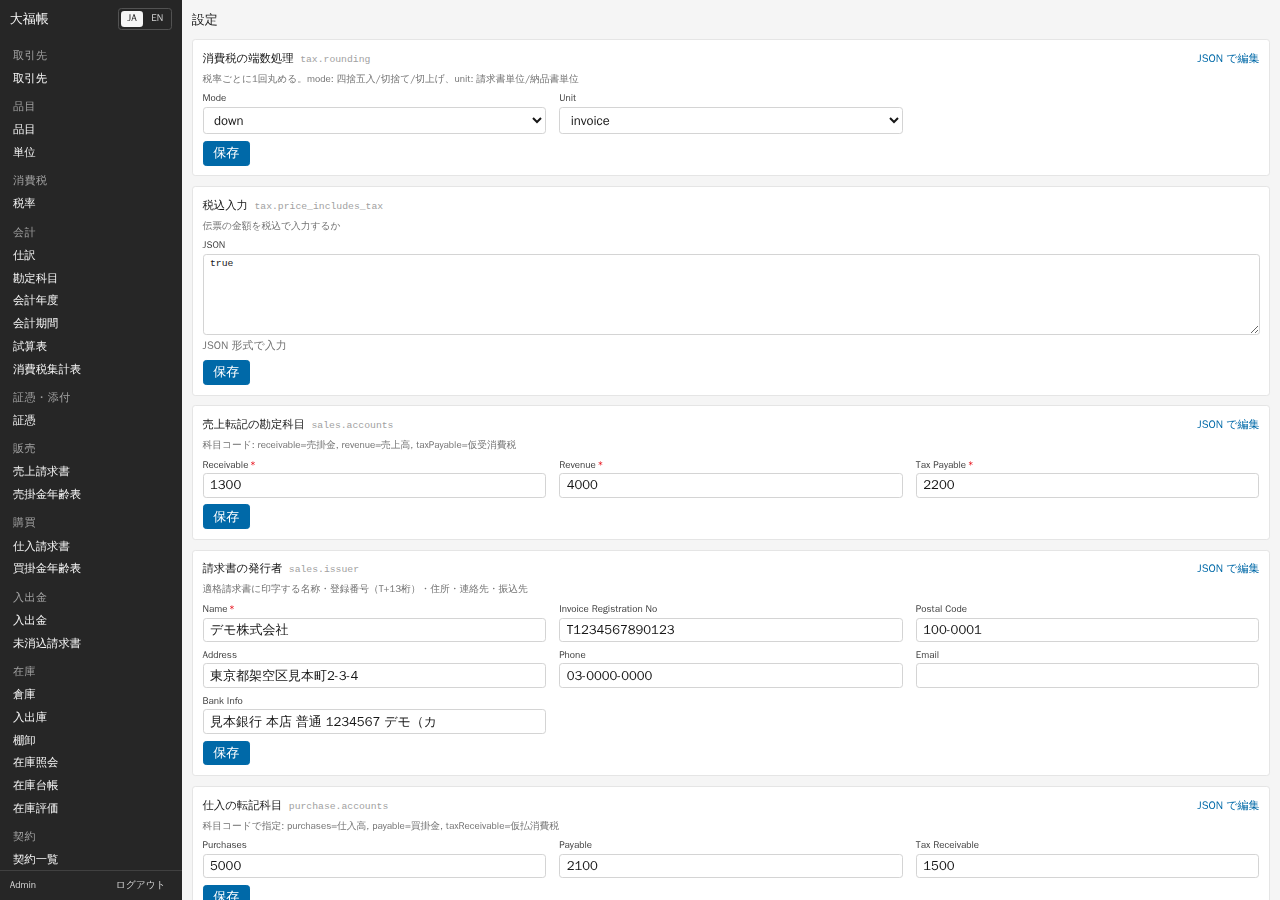
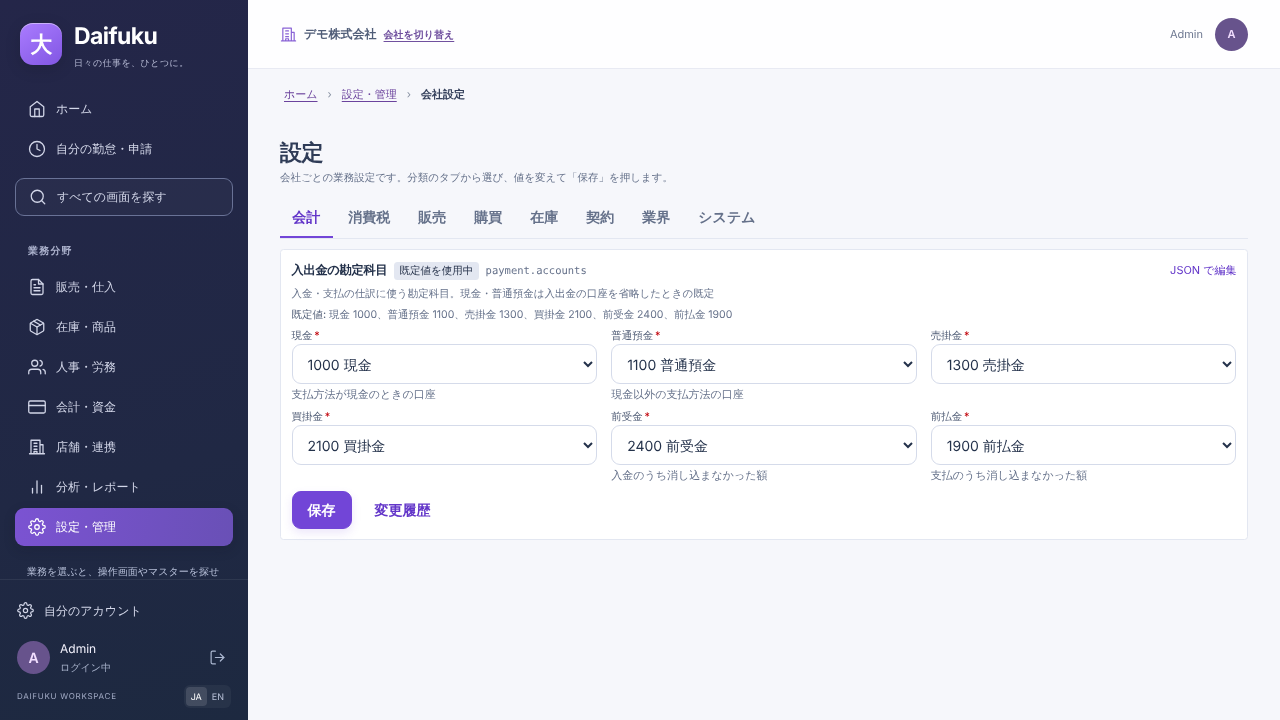
docs(settings): work log, manual screenshot and robust tab test (B1)
Record the settings console verification (gate:light, DB, browser), refresh
the chapter 03 screenshot from the browser run, cover the code picker's
fallback when accounts cannot be read, and read the first tab from the page
so a later company tab does not break the keyboard test.

Claude-Session: https://claude.ai/code/session_01QydeegbponQgR6vyUALmUN

diff --git a/apps/web/e2e/settings-console.spec.ts b/apps/web/e2e/settings-console.spec.ts
@@ -3,7 +3,7 @@
 // Dialog, the change history, and 390px. Writes go to the isolated E2E database; every changed setting is put back.
 import { expect, test, type APIRequestContext, type Page } from '@playwright/test';
 import { api, type Headers } from './operations-helpers.ts';
-import { assertNoOverflow, qualitySession, signInQuality } from './quality-helpers.ts';
+import { assertNoOverflow, failedRead, qualitySession, signInQuality } from './quality-helpers.ts';
 
 interface SettingOut {
   key: string;
@@ -44,12 +44,18 @@ test('settings-console AC-8/AC-14: category tabs keep ?tab= and follow the Arrow
   await page.goto('/settings');
   await expect(page.getByRole('heading', { name: '設定', exact: true, level: 1 })).toBeVisible();
   const names = await tablist(page).getByRole('tab').allTextContents();
-  // Only categories that have settings, in the kernel order (company / workforce / integration have none here).
-  expect(names.slice(0, 6)).toEqual(['会計', '消費税', '販売', '購買', '在庫', '契約']);
-  expect(names).toContain('システム');
+  // Only categories that have settings, in the kernel order (workforce / integration have none here); later items
+  // may add the company tab in front, so the first tab is read from the page.
+  const known = ['会社', '会計', '消費税', '販売', '購買', '在庫', '契約', '人事・労務', '業界', '連携', 'システム'];
+  expect(names).toEqual(known.filter((n) => names.includes(n)));
+  expect(names).toEqual(expect.arrayContaining(['会計', '消費税', '販売', '購買', '在庫', '契約', '業界', 'システム']));
   expect(names).not.toContain('人事・労務');
-  // No ?tab=: the first tab is selected and its panel holds that category's cards.
-  await expect(tab(page, '会計')).toHaveAttribute('aria-selected', 'true');
+  const first = names[0] ?? '';
+  const last = names[names.length - 1] ?? '';
+  expect(last).toBe('システム');
+  // No ?tab=: the first tab is selected.
+  await expect(tab(page, first)).toHaveAttribute('aria-selected', 'true');
+  await tab(page, '会計').click();
   await expect(page.getByRole('tabpanel', { name: '会計' })).toContainText('入出金の勘定科目');
   await expect(page.getByRole('tabpanel', { name: '会計' }).getByRole('combobox').first()).toBeEnabled();
   await page.screenshot({ path: test.info().outputPath('settings-accounting-desktop.png') });
@@ -65,7 +71,7 @@ test('settings-console AC-8/AC-14: category tabs keep ?tab= and follow the Arrow
 
   // Roving tabindex: only the selected tab is in the Tab order; arrows move and select (automatic activation).
   await expect(tab(page, '販売')).toHaveAttribute('tabindex', '0');
-  await expect(tab(page, '会計')).toHaveAttribute('tabindex', '-1');
+  await expect(tab(page, first)).toHaveAttribute('tabindex', '-1');
   await tab(page, '販売').focus();
   await page.keyboard.press('ArrowRight');
   await expect(tab(page, '購買')).toBeFocused();
@@ -76,26 +82,26 @@ test('settings-console AC-8/AC-14: category tabs keep ?tab= and follow the Arrow
   await expect(tab(page, '販売')).toBeFocused();
   await expect(page).toHaveURL(/[?&]tab=sales\b/);
   await page.keyboard.press('End');
-  await expect(tab(page, 'システム')).toBeFocused();
-  await expect(tab(page, 'システム')).toHaveAttribute('aria-selected', 'true');
+  await expect(tab(page, last)).toBeFocused();
+  await expect(tab(page, last)).toHaveAttribute('aria-selected', 'true');
   await expect(page).toHaveURL(/[?&]tab=system\b/);
   await page.keyboard.press('ArrowRight'); // wraps to the first
-  await expect(tab(page, '会計')).toBeFocused();
+  await expect(tab(page, first)).toBeFocused();
   await page.keyboard.press('ArrowLeft'); // wraps to the last
-  await expect(tab(page, 'システム')).toBeFocused();
+  await expect(tab(page, last)).toBeFocused();
   await page.keyboard.press('Home');
-  await expect(tab(page, '会計')).toBeFocused();
-  await expect(page).toHaveURL(/[?&]tab=accounting\b/);
+  await expect(tab(page, first)).toBeFocused();
+  await expect(tab(page, first)).toHaveAttribute('aria-selected', 'true');
   // Tab leaves the tab list for the panel (a single tab stop).
   await page.keyboard.press('Tab');
-  await expect(page.getByRole('tabpanel', { name: '会計' })).toBeFocused();
+  await expect(page.getByRole('tabpanel', { name: first })).toBeFocused();
 
   // The URL selects the tab on load; an unknown value falls back to the first tab.
   await page.goto('/settings?tab=inventory');
   await expect(tab(page, '在庫')).toHaveAttribute('aria-selected', 'true');
   await expect(page.getByRole('tabpanel', { name: '在庫' })).toContainText('既定の倉庫コード');
   await page.goto('/settings?tab=nope');
-  await expect(tab(page, '会計')).toHaveAttribute('aria-selected', 'true');
+  await expect(tab(page, first)).toHaveAttribute('aria-selected', 'true');
 });
 
 test('settings-console AC-9/AC-10/AC-11/AC-12: pick a sales posting account, see history, reset to the default', async ({
@@ -210,6 +216,16 @@ test('settings-console AC-9/AC-10: checkboxes, warehouse picker, enum labels and
   await expect(issuer.getByRole('textbox', { name: '住所', exact: true })).toHaveJSProperty('tagName', 'TEXTAREA');
   await expect(issuer.getByRole('textbox', { name: '登録番号', exact: true })).toBeVisible();
   await expect(issuer.getByText('T と数字 13 桁', { exact: false })).toBeVisible();
+
+  // A user who may not read accounts (e.g. only the settings role) types the code instead of picking it.
+  await page.route('**/api/account?*', (route) => route.fulfill(failedRead(403)));
+  await page.reload();
+  const typed = card(page, 'sales.accounts').getByRole('textbox', { name: '売上高', exact: true });
+  await expect(typed).toBeEditable();
+  await expect(
+    card(page, 'sales.accounts').getByText('一覧を読み込めないため', { exact: false }).first(),
+  ).toBeVisible();
+  await page.unroute('**/api/account?*');
 
   await page.evaluate(() => localStorage.setItem('daifuku.locale', 'en'));
   await page.reload();

diff --git a/docs/log/2026-10-29-settings-console.md b/docs/log/2026-10-29-settings-console.md
@@ -1,0 +1,70 @@
+# 作業記録: 2026-10-29 設定定義の表示属性と設定画面の再構成（B1）
+
+- セッション: 完成度向上計画 B1（workflow の作業項目、worktree `wip/settings-console`、基点 `ebc7574`）／ 担当: agent ／ 対象: [docs/specs/settings-console.md](../specs/settings-console.md)
+- 計測: tokens=null（未計測）, agent_minutes=約120, human_minutes=0, rework_lines=約60（e2e のロケーター変更、依存循環の解消、チェックボックスの必須印、リセット可否の追加）, gate_failures=2（gate:quick の eslint 1 件・依存境界 1 件。どちらも修正後に成功）
+
+## 決めたこと（と理由）
+
+- **表示属性は `SettingDef` に持たせ、登録時に検査する（[ADR-0027](../adr/0027-setting-presentation.md)）。** zod の `title` / `description` は単一文字列で `{ ja, en }` を持てない。画面側にラベル表を持つと module を足すたびに Web を変えることになる。検査は `kernel/src/setting-presentation.ts` の `checkSettingDef` で、property 名と enum 値は API が返すのと同じ `z.toJSONSchema(..., { io: 'input' })` から読む（zod の包みの違いで画面と検査が食い違わないように）。
+- **registry と表示属性の型の循環を避けた。** `setting-presentation.ts` は `SettingDef` を import せず、読む部分だけの構造型 `SettingPresentation` を持つ（dependency-cruiser の `no-circular` が type import でも検出したため）。
+- **単一値の設定には `fields` の代わりに定義直下の `widget` / `valueLabels`。** spec の AC-2 は単一値への `fields` を禁じるが、`inventory.default_warehouse`（倉庫）や `contract.default_proration`（選択肢）にも表示属性が要る。計画にあった widget の `checkbox` / `select` は schema の型で決まるので持たない。
+- **enum 値のラベル（`valueLabels`）を足した。** 目的の「日本語の選択肢で迷わず」に必要（`half_up` / `down` / `up` が生の値で出ていた）。AC-13 の走査にも含めた。
+- **各定義に `default` を足した。** 既定値の表示に要る。値は各 module が `getSetting` に渡していた fallback 定数そのもの。`SettingDef.default` の旧コメント（applyPack が既定値と等しい保存値を置き換える）は実装（`applySettings` は保存値を一切上書きしない）と食い違っていたので直した。挙動は変わらない。
+- **単一値の設定を JSON 入力から 1 つの入力にした。** boolean はチェックボックス（常に true/false が出るので必須印を付けない）、enum は選択肢、整数は数値の欄。record（`packs.applied`）だけ JSON 入力のまま。
+- **勘定科目・倉庫の選択欄は利用者自身の権限で `GET /api/<entity>` を読む。** 新しい読取経路を作らない（計画の原則 1）。`settings` ロールだけの利用者は勘定科目の read 権限が無いので、コードの直接入力に戻る（ブラウザ試験で 403 を返して確認）。保存値が一覧に無いときは値を残したまま「（見つかりません）」と警告する。一覧は 500 件まで（API の上限）。
+- **DELETE の監査 op は `delete`。** 変更前 `{ key: 値 }`、変更後 `{ key: null }`。会社行を `FOR UPDATE` で読んでから `settings - key` で消す。保存値が無ければ何もしない（監査も無し）。
+- **履歴は `company_settings` の監査のうち、key を変更前・変更後の snapshot に持つ行。** `setSetting` / `deleteSetting` に加え、pack 適用・l10n seed の書込みも同じ形なので含まれる。操作者は同じ tenant の利用者の `name` だけを添える（メールは返さない）。
+- **権限検査は kernel の 1 関数（`assertSettingsAccess`）に寄せた。** `setSetting` / `deleteSetting` / `settingHistory` が同じ境界（admin か `settings`、かつ `accessScope` が `all`）になり、route を経ない呼出しでも同じ。
+- **`packs.applied` には「既定に戻す」を出さない。** 消すと会社の全テンプレートのフック・画面が無効になる（`withContext` が `packs.applied` から `appliedPacks` を作る）。規則は「既定値の宣言が無い JSON 入力の設定には出さない」（`canReset`）。JSON 編集は従来どおり残した。読取専用の属性は B4 の `setup.progress` と合わせて検討（spec の未決事項）。
+- **リセット後の焦点はカードの「保存」。** 「既定に戻す」ボタンが消えるため kit の `Dialog` は開いた要素へ焦点を戻せない（ui.md の決まりどおり画面側で決める）。
+- **pack の設定は「業界」タブにまとめた**（spec の未決事項の初版どおり）。
+- **ADR-0013 の L1 に追記**し、pack 規約に「pack 自身の設定は fields / valueLabels / default を書く」を足した。
+
+## やったこと
+
+- kernel: `setting-presentation.ts`（新規）、`registry.ts`（`SettingDef` の拡張、`registerSetting` で検査）、`settings.ts`（`deleteSetting`、`settingHistory`、`assertSettingsAccess`）、`index.ts`
+- api: `routes/settings.ts`（`toOut` に category / order / fields / widget / valueLabels / defaultValue / isDefault、`DELETE /meta/settings/:key`、`GET /meta/settings/:key/audit`）
+- modules / packs: tax・sales・purchase・payment・inventory・contract・industry-operations、example・retail・real-estate の設定定義に表示属性と `default`。説明文から英語の property 名の列挙（`receivable=売掛金` など）を除いた
+- web: `lib/settings-console.ts`（新規。タブ・並び・フォームの形・既定値と履歴の文・`canReset`）、`lib/schema.ts`（`fields` の反映）、`components/setting-card.tsx`・`setting-code-field.tsx`（新規）、`pages/settings-page.tsx`（Tabs と `?tab=`）、`router.tsx`（`validateSearch`）、`api/settings.ts`・`api/types.ts`、`ui/token-usage.test.ts` の `CONVERTED` に 2 ファイル
+- tests: `kernel/test/setting-presentation.test.ts`、`apps/runtime/test/setting-labels.test.ts`、`apps/web/src/lib/settings-console.test.ts`、`apps/api/test/settings-console.db.test.ts`、`apps/web/e2e/settings-console.spec.ts`
+- 文書: ADR-0027（新規）、ADR-0013 追記、マニュアル 03（設定画面の説明・表・発行者の手順を日本語の細目名に、英語細目名の注意を削除、スクリーンショット `img/03-settings.png` を会計タブで撮り直し）、`docs/conventions/ui.md`（Tabs の注記、「会社設定の画面」節）、`docs/conventions/packs.md`、spec（implemented、実装で変えた点）
+
+## 検証（何を・どう確認したか。コードレビューか実測かを明記）
+
+- [実測] 単体（新規）: `kernel/test/setting-presentation.test.ts` 25 件（AC-1〜AC-3）、`apps/runtime/test/setting-labels.test.ts` 4 件（AC-13。全 module と全 16 pack を `loadRuntime({ schema: true })` で読み込み、26 設定を走査、6.6 秒）、`apps/web/src/lib/settings-console.test.ts` 14 件（AC-8〜AC-12）。既存の `lib/schema.test.ts`・`ui/token-usage.test.ts` も成功。
+- [実測] 登録時の検査が全設定を通ることを、全 pack を読み込んで registry を列挙するスクリプトで確認（26 設定、分類・既定値・shape を目視）。
+- [実測] DB: `apps/api/test/settings-console.db.test.ts` 14 件成功（15.9 秒、`daifuku_test_w5`）。GET の新属性、PUT 後の `isDefault: false`、DELETE の監査（op `delete`、変更前と null）と保存値なしでの無変更、未宣言 key の 404、履歴の順序・操作者名・20 件の上限、sales ロールと拠点限定（admin + settings）の 403、kernel の `deleteSetting` / `settingHistory` を店舗限定・sales の Context で直接呼んで拒否、401、OpenAPI。
+- [実測] `pnpm gate:quick --base ebc7574` 成功（92 秒。unit は関連 62/134 ファイル）。1 回目は eslint（テストの非 null 表明）、2 回目は依存境界（registry ↔ setting-presentation の循環）で失敗し、修正した。
+- [実測] `pnpm gate:light --base ebc7574` 成功（17.3 分。kernel の変更で DB を全件に昇格: 117 ファイル 715 件 882.9 秒、unit 134 ファイル 1,254 件 53.9 秒、format:check・docs・台帳・typecheck（root / api / web）・lint（警告 4 件は既存ファイルの関数行数）・test:deploy も成功）。実行中にブラウザ試験を並行して走らせたため、DB の時間は単独実行より長い可能性がある。
+- [実測] ブラウザ（`e2e-run.sh … 2`、隔離 fixture DB）: `settings-console.spec.ts` 4 件成功（`--no-deps`、約 22 秒）。タブは設定がある分類だけで kernel の順、`?tab=` の保持と読込、不明な値で先頭、roving tabindex、← → で移動と選択・端で反対側へ、Home / End、Tab でパネルへ。売上転記の勘定科目を既定値表示から「4100 雑収入」に変えて保存、API で保存値を確認、存在しないコード 9999 の警告と `aria-invalid`、履歴（変わった細目だけ、初回は「未設定 →」）、既定に戻す（Esc で取りやめ・焦点が開いた要素へ戻る、実行後は焦点が保存へ、API で保存値なし、履歴の先頭が「既定に戻す」）。チェックボックス・倉庫の選択・端数処理と日割りの選択肢ラベル・住所の textarea・登録番号の説明、科目一覧が 403 のときのコード入力、英語表示のラベル。390px で横はみ出しなし（タブ一覧は内側でスクロール）、ダイアログが画面内。
+- [実測] ブラウザ（最終状態）: `settings-console.spec.ts`・`ui-kit.spec.ts`（設定画面の骨格・失敗表示を含む 10 件）・`navigation.spec.ts`（5 件）を industry project 込みで実行し 22 件すべて成功（2.0 分）。navigation は業界会社に依存するため、`--no-deps` で走らせた途中の回では AC-3/10 が業界会社の不在で失敗した（今回の変更と無関係。依存込みで成功）。
+- [レビュー] スクリーンショット（390px の販売タブ・リセットのダイアログ、1280px の会計タブ・履歴）を目視。
+- [未検証] `pnpm gate:full`（統合担当が実行）。ブラウザ試験の全件（82 + 本件 4 件）は未実行で、実行したのは上記 3 spec。
+- [未検証] 無効タブを飛ばすキーボード操作のブラウザでの確認（無効タブを持つ画面が無い。`nextTabIndex` の unit のみ）。
+- [未検証] A2 の axe 検査（並行作業）での設定画面の結果。
+- [未検証] 勘定科目が 500 件を超える会社の選択欄、モバイル実機。
+
+## 見つけた問題と修正（発見経路つき）
+
+- マニュアル 03 の端数処理の単位に「delivery_note 納品書ごとも選べる」とあったが、schema は `invoice` だけ — 発見: レビュー（設定定義と照合）、修正: マニュアルを「納品書ごとは未対応」に。
+- `SettingDef.default` のコメントが applyPack の実装と食い違っていた — 発見: レビュー、修正: コメントを実装に合わせた。
+- e2e: 必須印 `*` がラベルの文字に含まれ `getByLabel(exact)` が一致しない、単一値ではカードの group と入力欄が同じ名前になる — 発見: E2E、修正: コード選択欄の `*` を `aria-hidden`、select に `required`、ロケーターを role + name に。
+- 単一値の boolean に必須印が出てチェックボックスの名前に `*` が混ざる — 発見: E2E の想定確認、修正: boolean の単一値は必須にしない。
+- registry ↔ setting-presentation の型 import の循環 — 発見: gate:quick（依存境界）、修正: 構造型。
+
+## 未実施（減らさない。完了したら「済」を付けて残す）
+
+- `docs/STATUS.md` / `PLAN.md` / `docs/completion-plan.md` / `docs/improvement-candidates.md` の更新（統合担当）
+- `pnpm metrics:add`（統合担当がまとめて記録）
+- `pnpm gate:full` とブラウザ試験の全件（統合担当）
+
+## 判断待ち（利用者）
+
+- pack の設定を「業界」タブにまとめるか、pack ごとのタブにするか（初版はまとめた）。
+- `settings` ロールに勘定科目・倉庫の read を足して選択欄を使えるようにするか（現状はコード入力に戻る。権限の変更なので本件では行っていない）。
+- `packs.applied` のような記録用の設定を読取専用にする表示属性を設けるか（B4 の `setup.progress` と合わせて）。
+
+## 次のセッションへ
+
+- B2 は `company.profile` を `category: 'company'`（key の先頭が `company` なら省略可）と全細目の `fields` 付きで登録し、ADR-0027 に節を足す。B4 の `setup.progress` も同様（`category: 'system'`）。
+- 新しい設定を足すと `apps/runtime/test/setting-labels.test.ts` が日英ラベルと enum ラベルの不足を落とす。

diff --git a/docs/manual/03-setup.md b/docs/manual/03-setup.md
@@ -18,7 +18,7 @@
 
 「設定・管理」→「会社設定」（管理者か settings ロールの利用者のみ。店舗・拠点に限定された所属では開けません）で、会社ごとの設定を変えます。「すべての画面を探す」でも検索できます。
 
-![設定画面](img/03-settings.png)
+![設定画面（会計タブ）](img/03-settings.png)
 
 - 上のタブ（会計・消費税・販売・購買・在庫・契約・業界・システム）で分類を選びます。設定が無い分類のタブは出ません。選んだタブはアドレス（`/settings?tab=sales` など）に残るので、ブックマークや再読込でも同じタブが開きます。タブはキーボードの ← → で隣へ、Home / End で先頭・末尾へ移れます。
 - 設定ごとに枠があり、細目は日本語の名前で並びます（英語表示では英語の名前）。値を変えて枠の中の「保存」を押すと反映され、「設定を保存しました」と出ます。
